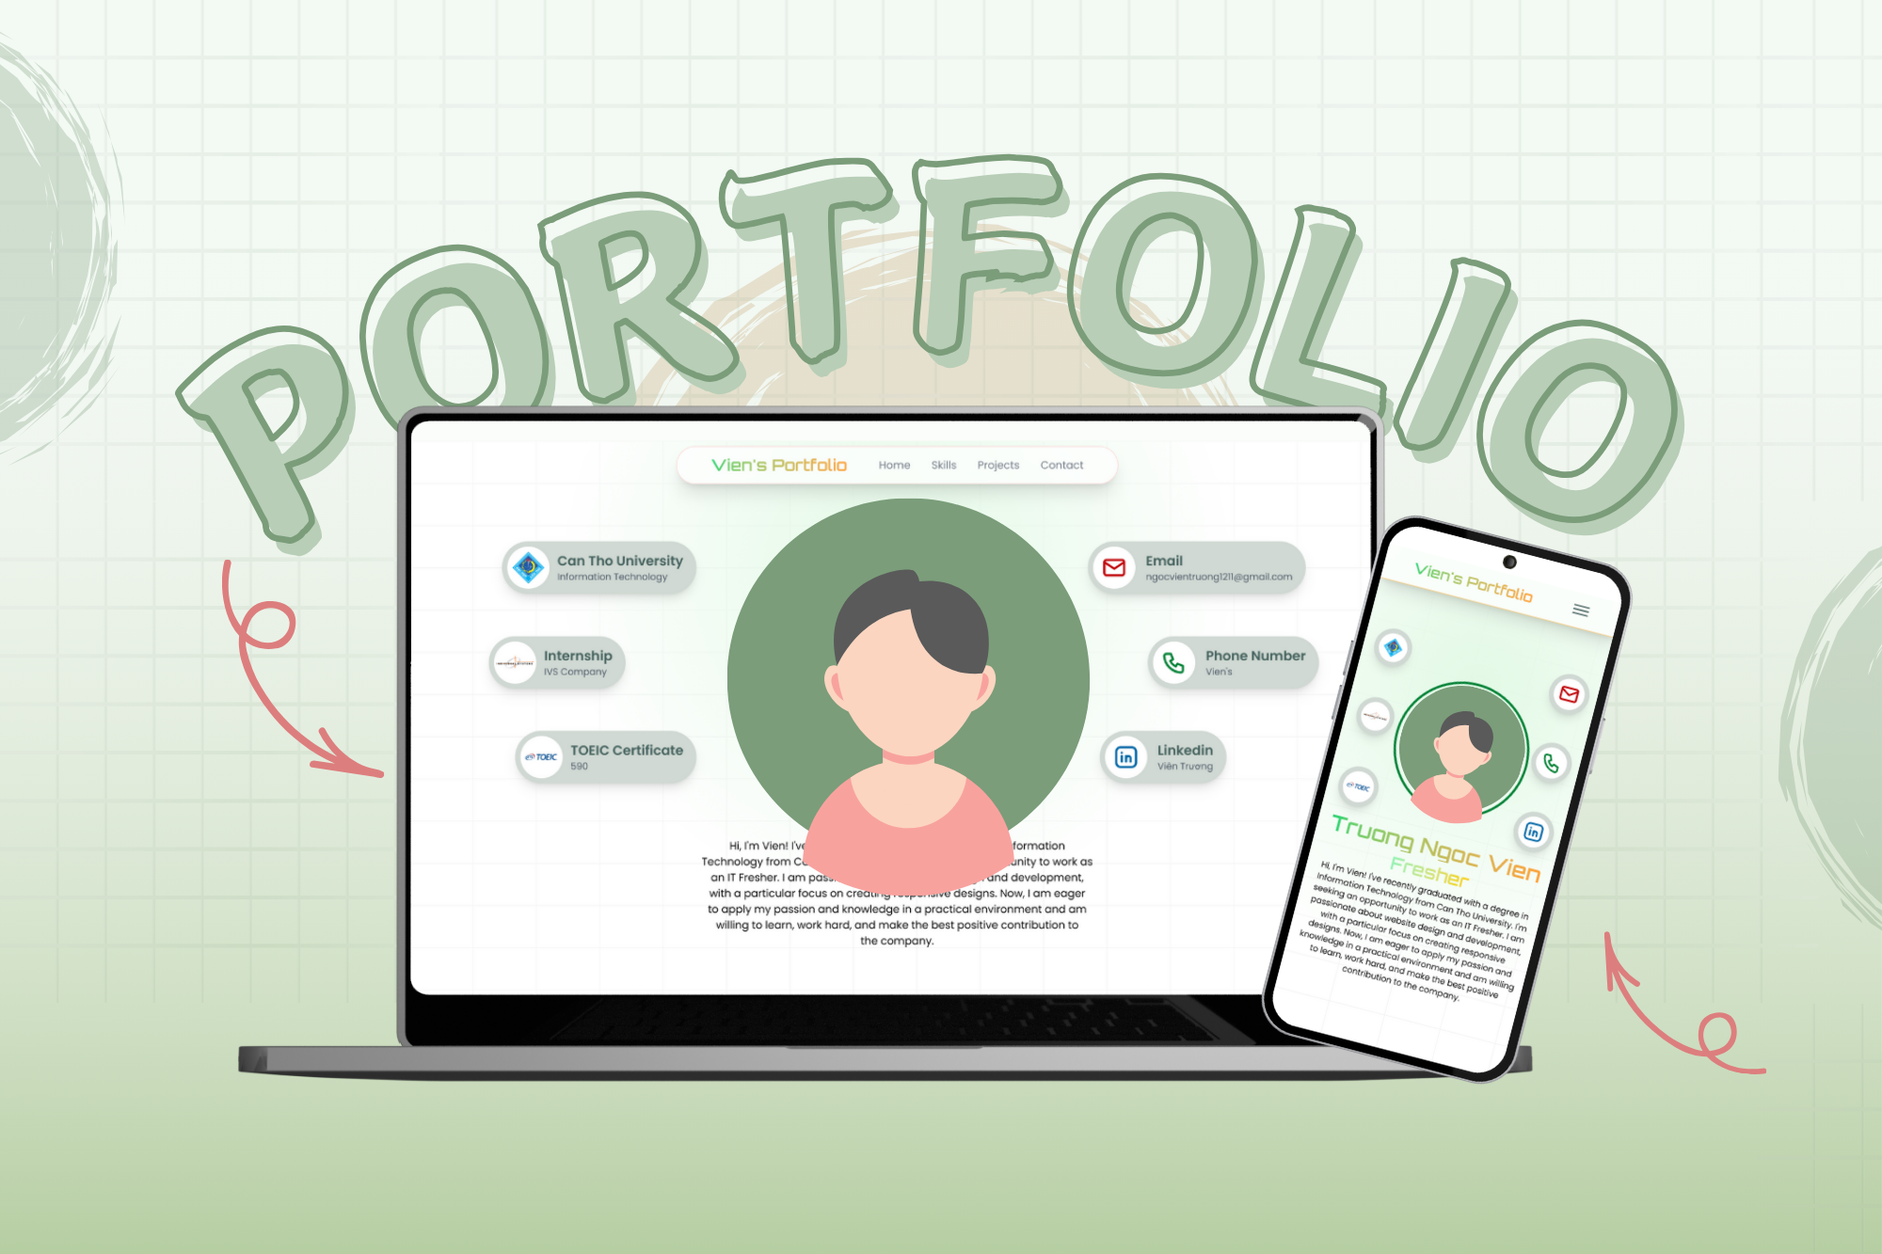
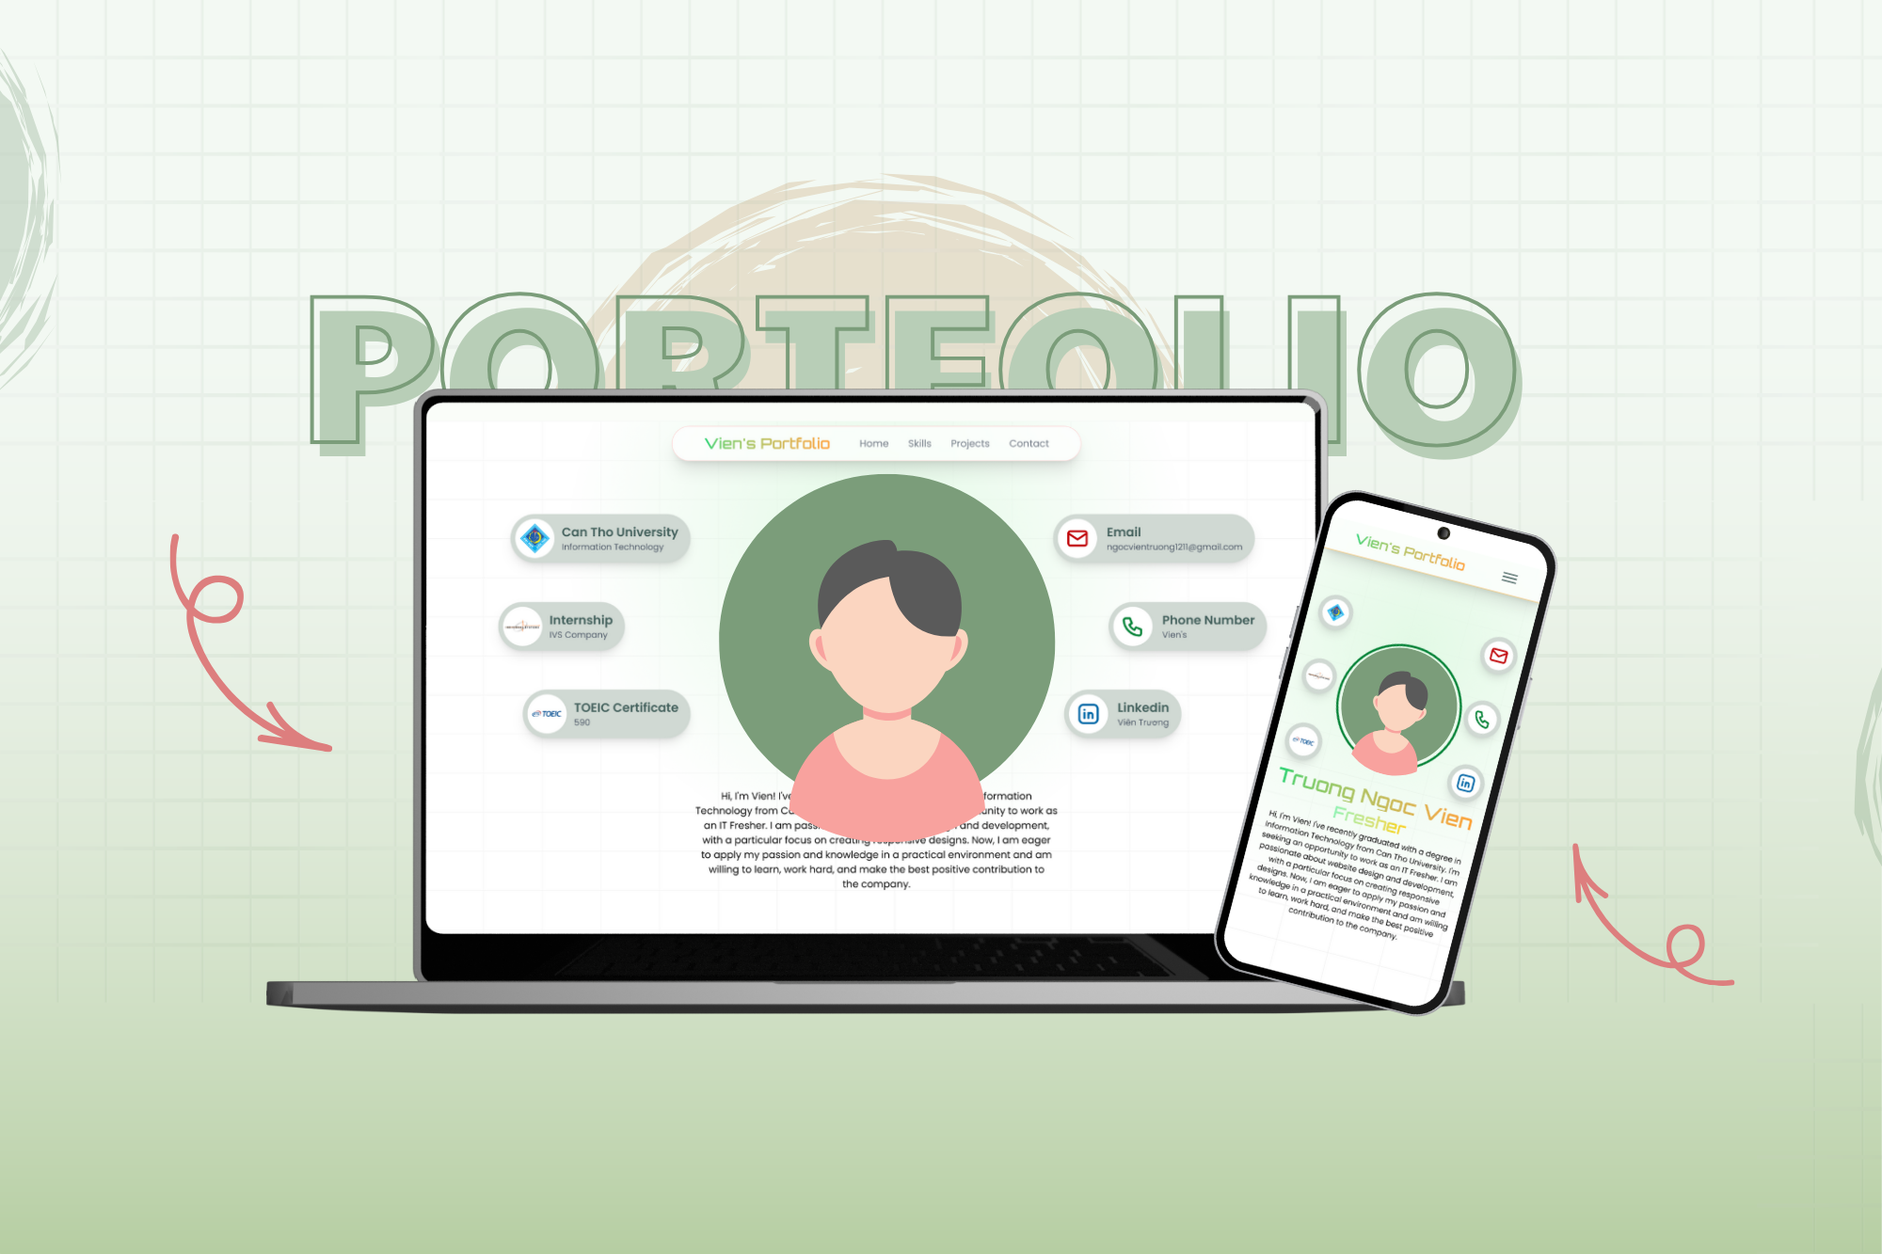
Upload 5

Changed region(s): [[0.093, 0.123, 0.93, 0.8612], [0.93, 0.4306, 1.0, 0.7382], [0.0, 0.0308, 0.062, 0.3691]]

diff --git a/src/components/Info.jsx b/src/components/Info.jsx
@@ -1,4 +1,4 @@
-import React from 'react'
+import React, { useState } from 'react'
 
 import ctulogo from '../assets/logo-ctu.png'
 import ivslogo from '../assets/ivslogo.webp'
@@ -14,8 +14,8 @@ const Info = () => {
     }
 
     return (
-        <div id="home" className='flex min-h-screen w-full items-center justify-center py-28 md:py-32'>
-            <div className='flex flex-col items-center justify-center gap-10 text-10'>
+        <div id="info" className='relative flex min-h-screen w-full items-center justify-center py-28 md:py-32'>
+            <div className='flex relative flex-col items-center justify-center gap-10 text-10'>
                 <motion.div
                     variants={variants}
                     initial="hidden"
@@ -36,9 +36,11 @@ const Info = () => {
                 >
                     <h1 style={{ fontFamily: "'Orbitron', sans-serif" }} className='bg-gradient-to-r from-green-500 to-orange-400 bg-clip-text text-transparent opacity-80 text-4xl font-semibold transition-all duration-300 hover:opacity-100'>Truong Ngoc Vien</h1>
                     <h3 style={{ fontFamily: "'Orbitron', sans-serif" }} className='bg-gradient-to-r from-green-300 to-yellow-400 bg-clip-text text-transparent opacity-80 text-3xl font-semibold transition-all duration-300 hover:opacity-100 mt-1'>Fresher</h3>
-                    <p className='md:text-base text-pretty text-sm mt-1'>Hi, I'm Vien! I've recently graduated with a degree in Information Technology from Can Tho University. I'm seeking an opportunity to work as an IT Fresher. I am passionate about website design and development, with a particular focus on creating responsive designs. Now, I am eager to apply my passion and knowledge in a practical environment and am willing to learn, work hard, and make the best positive contribution to the company.</p>
+                    <p className='md:text-base text-pretty text-gray-700 text-sm mt-1'>Hi, I'm Vien! I've recently graduated with a degree in Information Technology from Can Tho University. I'm seeking an opportunity to work as an IT Fresher. I am passionate about website design and development, with a particular focus on creating responsive designs. Now, I am eager to apply my passion and knowledge in a practical environment and am willing to learn, work hard, and make the best positive contribution to the company.</p>
                 </motion.div>
             </div>
+
+            
 
             <motion.div
                 variants={variants}
@@ -46,16 +48,18 @@ const Info = () => {
                 whileInView="visible"
                 viewport={{ once: false }}
                 transition={{ duration: 0.8, delay: 0.6 }}
-                className='absolute flex bg-[#D0D9D3] left-5 md:left-35 top-[15%] md:top-[18%] p-2 rounded-full shadow-lg
+                className='absolute flex bg-[#D0D9D3] left-5 md:left-25 top-[15%] md:top-[18%] p-2 rounded-full shadow-lg
                group transition-all duration-300 hover:-translate-y-5 hover:scale-105 hover:shadow-2xl hover:shadow-[#6D8777]'
             >
                 <img src={ctulogo} className='w-12 md:w-16 rounded-full bg-white p-2' />
+                
                 <div className='hidden lg:flex flex-col items-start mx-3 justify-center 
                     group-hover:block lg:group-hover:flex transition-opacity duration-300'>
                     <span className='text-sm lg:text-xl text-[#45625e] font-semibold flex flex-col'>Can Tho University</span>
                     <span className='text-xs lg:text-sm text-gray-600'>Information Technology</span>
                 </div>
             </motion.div>
+       
 
 
             <motion.div
@@ -64,7 +68,7 @@ const Info = () => {
                 whileInView="visible"
                 viewport={{ once: false }}
                 transition={{ duration: 0.8, delay: 0.8 }}
-                className='absolute flex bg-[#D0D9D3] left-5 md:left-30 top-[28%] md:top-[35%] p-2 rounded-full shadow-lg 
+                className='absolute flex bg-[#D0D9D3] left-5 md:left-20 top-[28%] md:top-[35%] p-2 rounded-full shadow-lg 
                group transition-all duration-300 hover:-translate-y-5 hover:scale-105 hover:shadow-2xl hover:shadow-[#6D8777]'
             >
                 <img src={ivslogo} className='w-12 md:w-16 rounded-full bg-white p-1' />
@@ -81,7 +85,7 @@ const Info = () => {
                 whileInView="visible"
                 viewport={{ once: false }}
                 transition={{ duration: 0.8, delay: 1 }}
-                className='absolute flex bg-[#D0D9D3] left-5 md:left-40 top-[41%] md:top-[52%] p-2 rounded-full shadow-lg 
+                className='absolute flex bg-[#D0D9D3] left-5 md:left-35 top-[41%] md:top-[52%] p-2 rounded-full shadow-lg 
                group transition-all duration-300 hover:-translate-y-5 hover:scale-105 hover:shadow-2xl hover:shadow-[#6D8777]'
             >
                 <img src={toeiclogo} className='w-13 md:w-16 rounded-full bg-white' />
@@ -98,7 +102,7 @@ const Info = () => {
                 whileInView="visible"
                 viewport={{ once: false }}
                 transition={{ duration: 0.8, delay: 1 }}
-                className='absolute flex bg-[#D0D9D3] right-5 md:right-30 top-[15%] md:top-[18%] p-2 rounded-full shadow-lg 
+                className='absolute flex bg-[#D0D9D3] right-5 md:right-20 top-[15%] md:top-[18%] p-2 rounded-full shadow-lg 
                group transition-all duration-300 hover:-translate-y-5 hover:scale-105 hover:shadow-2xl hover:shadow-[#6D8777]'
             >
                 <a
@@ -128,7 +132,7 @@ const Info = () => {
                 whileInView="visible"
                 viewport={{ once: false }}
                 transition={{ duration: 0.8, delay: 0.6 }}
-                className="absolute flex bg-[#D0D9D3] right-5 md:right-25 top-[28%] md:top-[35%] p-2 rounded-full shadow-lg
+                className="absolute flex bg-[#D0D9D3] right-5 md:right-15 top-[28%] md:top-[35%] p-2 rounded-full shadow-lg
                transition-all duration-300 hover:-translate-y-2 hover:scale-105 hover:shadow-2xl hover:shadow-[#6D8777]"
             >
                 <a
@@ -159,7 +163,7 @@ const Info = () => {
                 whileInView="visible"
                 viewport={{ once: false }}
                 transition={{ duration: 0.8, delay: 1 }}
-                className='absolute flex bg-[#D0D9D3] right-5 lg:right-60 md:right-35 top-[41%] md:top-[52%] p-2 rounded-full shadow-lg 
+                className='absolute flex bg-[#D0D9D3] right-5 lg:right-50 md:right-35 top-[41%] md:top-[52%] p-2 rounded-full shadow-lg 
                group transition-all duration-300 hover:-translate-y-5 hover:scale-105 hover:shadow-2xl hover:shadow-[#6D8777]'
             >
                 <a
@@ -182,6 +186,10 @@ const Info = () => {
                     </div>
                 </a>
             </motion.div>
+
+
+
+            
         </div>
     )
 }

diff --git a/src/components/Projects.jsx b/src/components/Projects.jsx
@@ -39,7 +39,7 @@ import help from '/images_4/Help.png';
 import setting from '/images_4/Setting.png';
 
 import cover5 from '/images_5/cover.png';
-import i1 from '/images_5/i1.png';
+import w from '/images_5/w.png';
 
 import { FaChevronRight, FaChevronUp } from 'react-icons/fa';
 
@@ -50,12 +50,13 @@ const projectList = [
         id: 1,
         title: "My Portfolio",
         year: "Feb 2025",
-        description: "This website is professionally introduce myself and provide comprehensive information about me, including my personal profile, professional skills, work experience, and the projects I have worked on. All of this is the result of my academic learning in school as well as my self-study efforts. <br> <br> This website is built using React combined with TailwindCSS and Framer Motion, creating a modern, optimized, and flexible user interface. The entire project is deployed on the Vercel platform, ensuring high performance and fast loading speeds.",
+        description: "This website is introduce myself and provide comprehensive information about me, including my personal profile, professional skills, work experience, and the projects I have worked on. All of this is the result of my academic learning in school as well as my self-study efforts. <br> <br> This website is built using React combined with TailwindCSS and Framer Motion, creating a modern, optimized, and flexible user interface. The entire project is deployed on the Vercel platform, ensuring high performance and fast loading speeds.",
         cover: cover5,
         images: [
-            { src: i1, caption: "If you have any feedback or questions, feel free to reach out to me. I'm always open to discussions and collaborations!" }
+            { src: w, caption: "If you have any feedback or questions, feel free to reach out to me. I'm always open to discussions and collaborations!" }
         ],
-        techStack: ["ReactJs", "Framer Motion", "Tailwind CSS"]
+        techStack: ["ReactJs", "Framer Motion", "Tailwind CSS"],
+        link: "https://vien-portfolio.vercel.app"
     },
     {
         id: 2,
@@ -78,7 +79,7 @@ const projectList = [
             { src: chat, caption: "Chatbot and real-time chat with the admin" }
         ],
         video: "videos_1/Vieen's_Store_Admin_Dashboard.mp4",
-        techStack: ["MERN Stack","Javascript", "Tailwind CSS", "Figma", "HTML"]
+        techStack: ["MERN Stack", "Javascript", "Tailwind CSS", "Figma", "HTML"]
     },
 
     {
@@ -87,14 +88,14 @@ const projectList = [
         year: "Apr 2024",
         description: "Milk Tea Shop Management App is a group 2 members done in Mobile Development subject, a mobile application designed to provide ordering, product management and customer interaction in an intuitive and easy-to-use way. <br> <br> Using Flutter to develop the application and Firebase to store user data, manage login and authentication, as well as manage product and order data. The application will create an easy and convenient shopping experience with a beautiful, pleasant and easy-to-use interface.",
         cover: cover3,
-        
+
         images: [
             { src: signin2, caption: "Users enter their registered email and password to log into the application. To create an account, users must enter their email, password, and confirm their password. Administrators use the provided email and password to log into the application." },
             { src: home, caption: "The home page interface displays advertising images and all products for users to choose products. Users can add products to the cart right on the Home page and can add products to the list of favorite products. On the AppBar, users can choose how to display products such as: “All Products” or “Only favorite products”, not only that, the AppBar also has a “Cart” for users to access the cart. BottomNavigationBar, helps users easily move back and forth to view order information, personal page and home page." },
             { src: detail_addcart, caption: "The interface displays detailed product information, helping users easily view product information, update quantity and add products to the cart to place an order. Then users can go to the cart to view the products that the user has added to the cart, and users can “Order Now” those products." },
             { src: manage, caption: "Administrators can add, edit, and delete products here." },
         ],
-        
+
         techStack: ["Dart", "Flutter", "Firebase"]
     },
     {
@@ -222,6 +223,17 @@ const Projects = () => {
                                         </a>
                                     )}
 
+                                    {openProject[project.id] && project.link && (
+                                        <a
+                                            href={project.link}
+                                            target="_blank"
+                                            rel="noopener noreferrer"
+                                            className="text-green-700 cursor-pointer hover:underline mt-2"
+                                        >
+                                            🔗 Link Deploy 
+                                        </a>
+                                    )}
+
                                     <ScrollReveal>
                                         <div className="flex flex-wrap gap-2 mt-2">
                                             {project.techStack.map((tech, index) => (
@@ -247,7 +259,7 @@ const Projects = () => {
                                     transition={{ duration: 0.5 }}
                                 >
                                     <p className="text-gray-700" dangerouslySetInnerHTML={{ __html: project.description }}></p>
-                                    
+
                                     <div className="grid grid-cols-1 gap-4 mt-4">
                                         {project.images.map((img, index) => (
                                             <div key={index} className="flex flex-col">
@@ -265,7 +277,7 @@ const Projects = () => {
                                     {project.video && (
                                         <div className="w-full flex flex-col justify-center items-center mt-4">
                                             <video className="w-full max-w-[700px] rounded-xl shadow-md" controls controlsList='nodownload' onContextMenu={(e) => e.preventDefault()} muted>
-                                                <source src={project.video} type="video/mp4"/>
+                                                <source src={project.video} type="video/mp4" />
                                                 Trình duyệt của bạn không hỗ trợ video.
                                             </video>
                                             <p className="text-sm text-gray-500 mt-2">This is Admin Dashboard</p>

diff --git a/src/components/Welcome.jsx b/src/components/Welcome.jsx
@@ -1,0 +1,75 @@
+import React, { useEffect } from 'react'
+import { motion } from "framer-motion";
+
+import { LiaAngleDoubleDownSolid } from 'react-icons/lia';
+import { GiBeveledStar } from 'react-icons/gi';
+
+const Welcome = () => {
+    useEffect(() => {
+        window.scrollTo(0, 0);
+    }, []);
+    return (
+        <motion.div
+            initial={{ opacity: 0, y: -50, scale: 0.95}}
+            whileInView={{ opacity: 1, y: 0, scale: 1}}
+            viewport={{ once: false, amount: 0.6 }}
+            transition={{ duration: 0.8, delay: 0.2 }}
+            id="welcome"
+            className="flex min-h-screen max-w-[850px] items-center justify-center p-0"
+        >
+            
+            <div className="flex flex-col items-center justify-center gap-3 space-y-3 p-14">
+                <h1 className="text-center text-4xl md:text-6xl bg-gradient-to-br from-orange-300 to-green-500 bg-clip-text text-transparent">Welcome to my</h1>
+
+                <motion.h1
+                    style={{
+                        fontFamily: "'Orbitron', sans-serif",
+                        background: "linear-gradient(90deg, #34D399, #FBBF24, #e08a67)",
+                        backgroundSize: "500% 100%",
+                        WebkitBackgroundClip: "text",
+                        WebkitTextFillColor: "transparent",
+                        
+                    }}
+                    animate={{
+                        backgroundPosition: ["0% 50%", "100% 50%", "0% 50%"],
+                    }}
+                    transition={{
+                        duration: 4,
+                        repeat: Infinity,
+                        ease: "linear",
+                    }}
+                    className="text-center text-7xl md:text-9xl font-semibold tracking-wide"
+                >
+                    Portfolio
+                </motion.h1>
+
+                <p className="text-center text-md md:text-lg text-gray-500">
+                “Ready to work, continuously learn, and contribute value!”
+                </p>
+
+
+
+                <div className="relative flex flex-col items-center py-6">
+                    <button
+                        onClick={() => {
+                            window.scrollTo({
+                                top: window.innerHeight,
+                                behavior: "smooth",
+                            });
+                        }}
+                        className="relative bg-transparent border-none outline-none animate-pulse cursor-pointer"
+                    >
+                        <div className="relative flex items-center justify-center">
+                            <div className="absolute w-10 h-10 md:w-12 md:h-12 rounded-full bg-gradient-to-r from-orange-300 to-green-500 animate-ping opacity-20"></div>
+                            <LiaAngleDoubleDownSolid className='animate-bounce text-2xl md:text-2xl text-amber-700 opacity-40' />
+                        </div>
+                    </button>
+
+                </div>
+
+            </div>
+        </motion.div>
+    )
+}
+
+export default Welcome

diff --git a/src/components/Navbar.jsx b/src/components/Navbar.jsx
@@ -11,9 +11,9 @@ const Navbar = () => {
   };
 
   return (
-    <nav className="fixed top-0 z-10 gap-12 flex w-full md:w-fit md:top-2 md:rounded-full bg-white/70 items-center justify-between md:border md:border-red-200 border-b border-b-amber-500 px-13 py-3 text-gray-700 backdrop-blur-md md:justify-evenly shadow-xl">
+    <nav className="fixed top-0 z-10 gap-12 flex w-full md:w-fit md:top-4 md:rounded-full bg-white/70 items-center justify-between md:border md:border-red-200 border-b border-b-amber-500 px-13 py-3 text-gray-700 backdrop-blur-md md:justify-evenly shadow-xl">
       <a
-        href="#home"
+        href="#welcome"
         style={{ fontFamily: "'Orbitron', sans-serif" }}
         className=" bg-gradient-to-r from-green-500 to-orange-400 bg-clip-text text-transparent opacity-80 text-2xl font-semibold transition-all duration-300 hover:opacity-100"
       >
@@ -24,7 +24,7 @@ const Navbar = () => {
       <ul className="hidden md:flex gap-8">
         <li className="group transition-all duration-300 ease-in-out hover:scale-110">
           <a
-            href="#home"
+            href="#info"
             className="cursor-pointer opacity-70 transition-all duration-300 hover:opacity-100"
           >
             Home
@@ -74,7 +74,7 @@ const Navbar = () => {
           <ul className="flex gap-8 justify-center">
             <li>
               <a
-                href="#home"
+                href="#info"
                 className="group relative cursor-pointer opacity-70 transition-all duration-300 hover:opacity-100"
               >
                 <GoHome className="text-2xl opacity-70 transition-all duration-300 group-hover:opacity-100 hover:scale-110" />

diff --git a/src/App.jsx b/src/App.jsx
@@ -3,6 +3,7 @@ import Info from "./components/Info"
 import Navbar from "./components/Navbar"
 import Projects from "./components/Projects"
 import Skill from "./components/Skill"
+import Welcome from "./components/welcome"
 
 function App() {
   return (
@@ -10,6 +11,7 @@ function App() {
     <div className="fixed -z-10 min-h-screen w-full bg-white bg-[linear-gradient(to_right,#f0f0f0_1px,transparent_1px),linear-gradient(to_bottom,#f0f0f0_1px,transparent_1px)] bg-[size:6rem_4rem]"><div class="absolute bottom-0 left-0 right-0 top-0 bg-[radial-gradient(circle_500px_at_50%_200px,#e3fae6,transparent)]"></div></div>
       <main className="flex flex-col items-center px-4 md:px-8 lg:px-16">
         <Navbar />
+        <Welcome />
         <Info />
         <Skill />
         <Projects />

diff --git a/tailwind.config.js b/tailwind.config.js
@@ -5,7 +5,8 @@ export default {
     "./src/**/*.{js,ts,jsx,tsx}"],
   theme: {
     extend: {
-    },
+      
+    }
   },
   plugins: [],
 };
